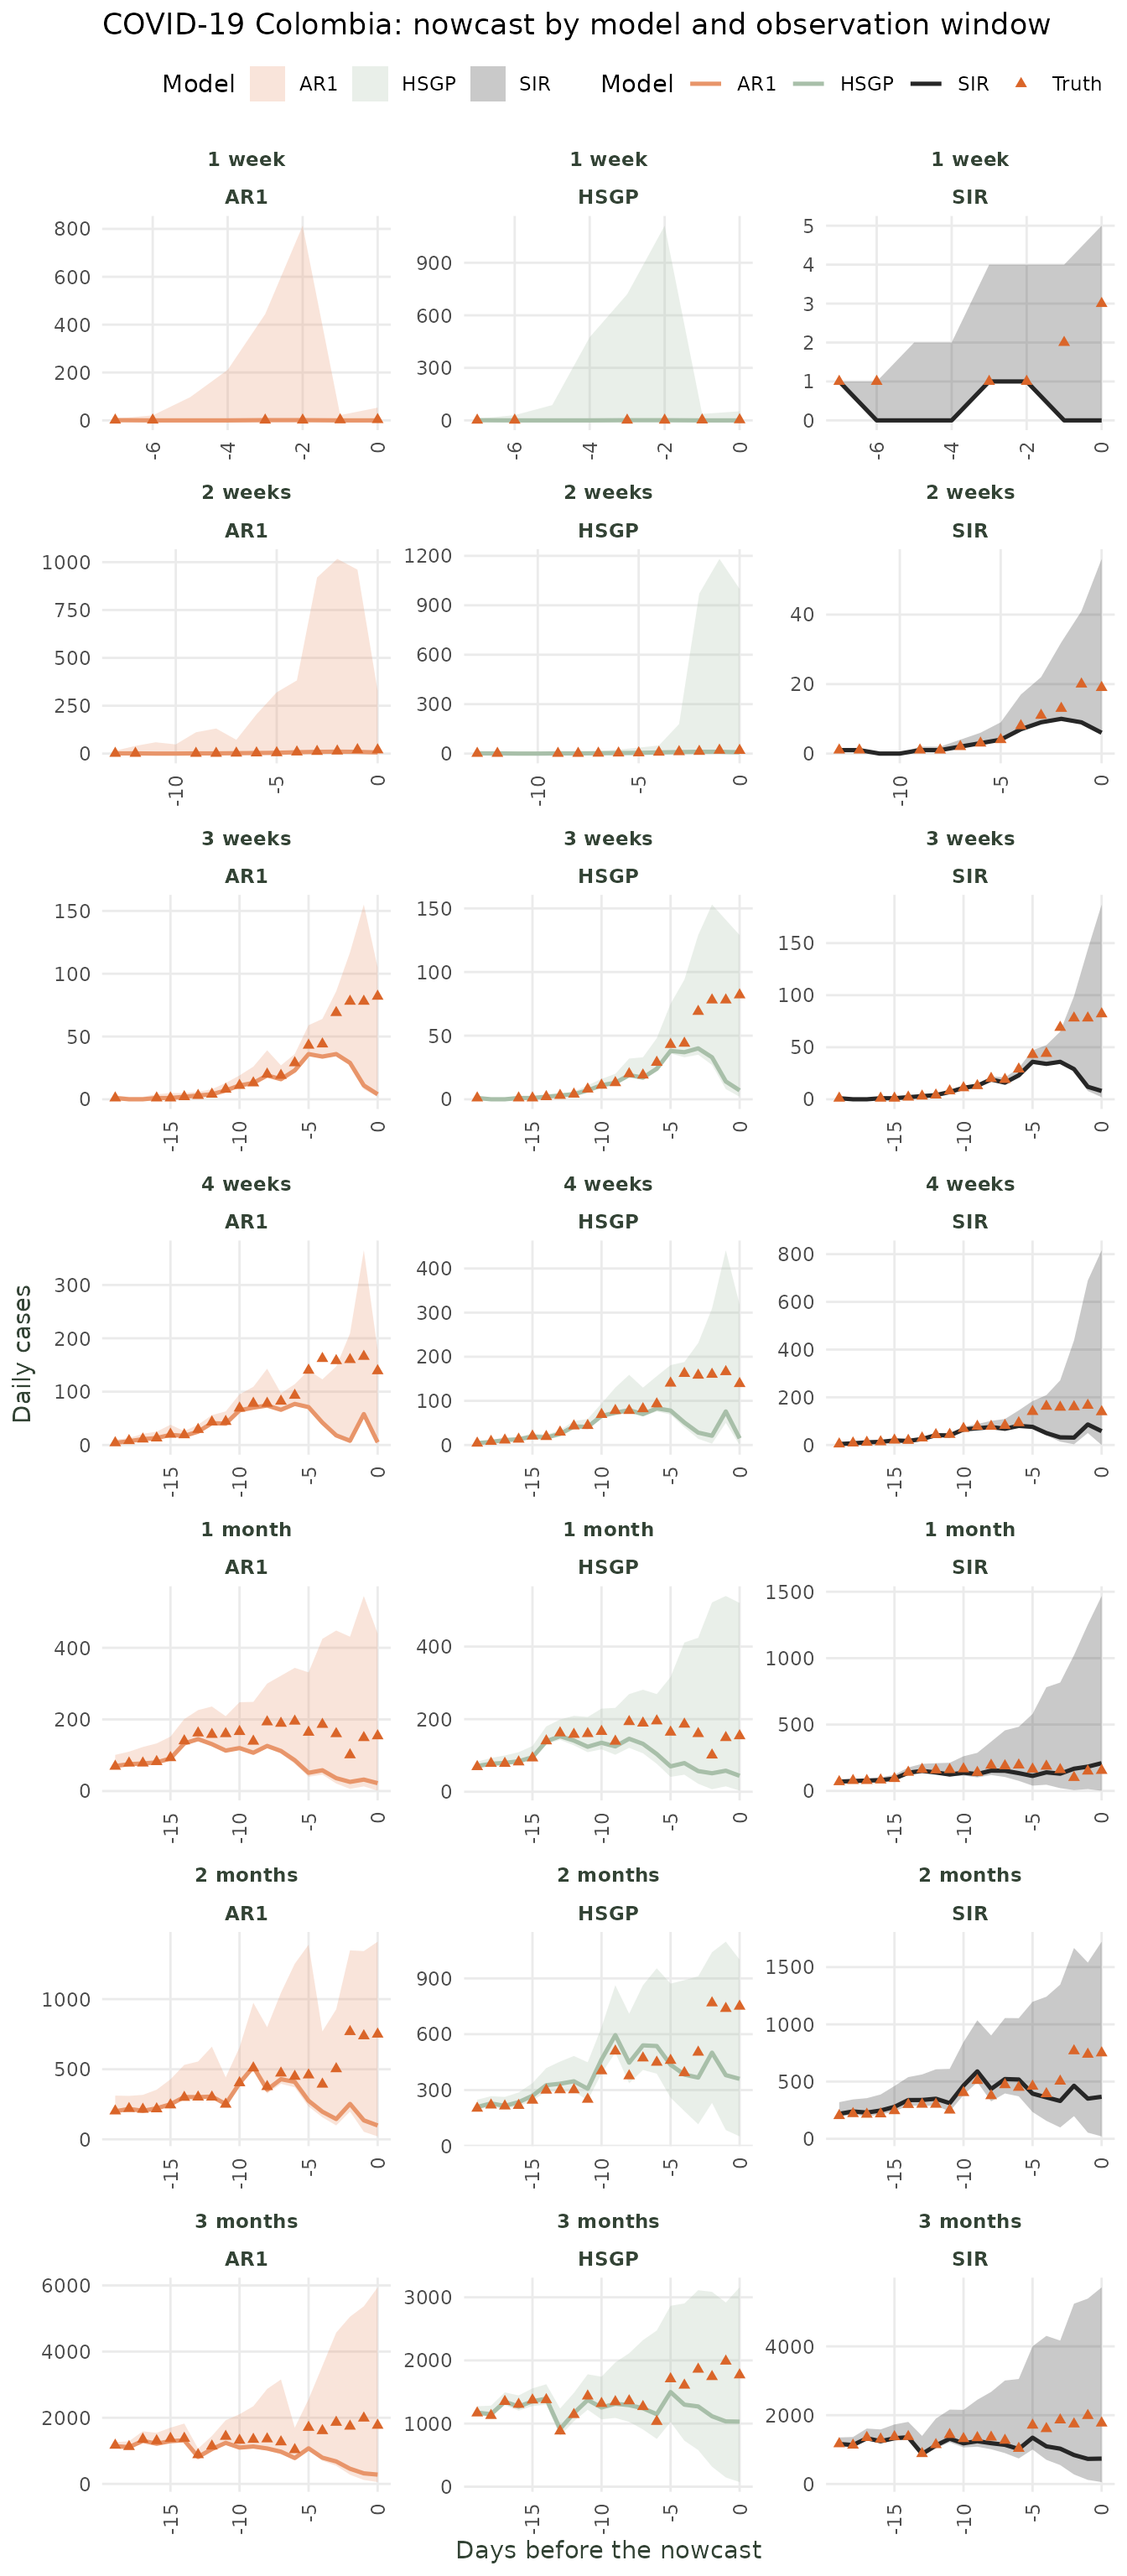
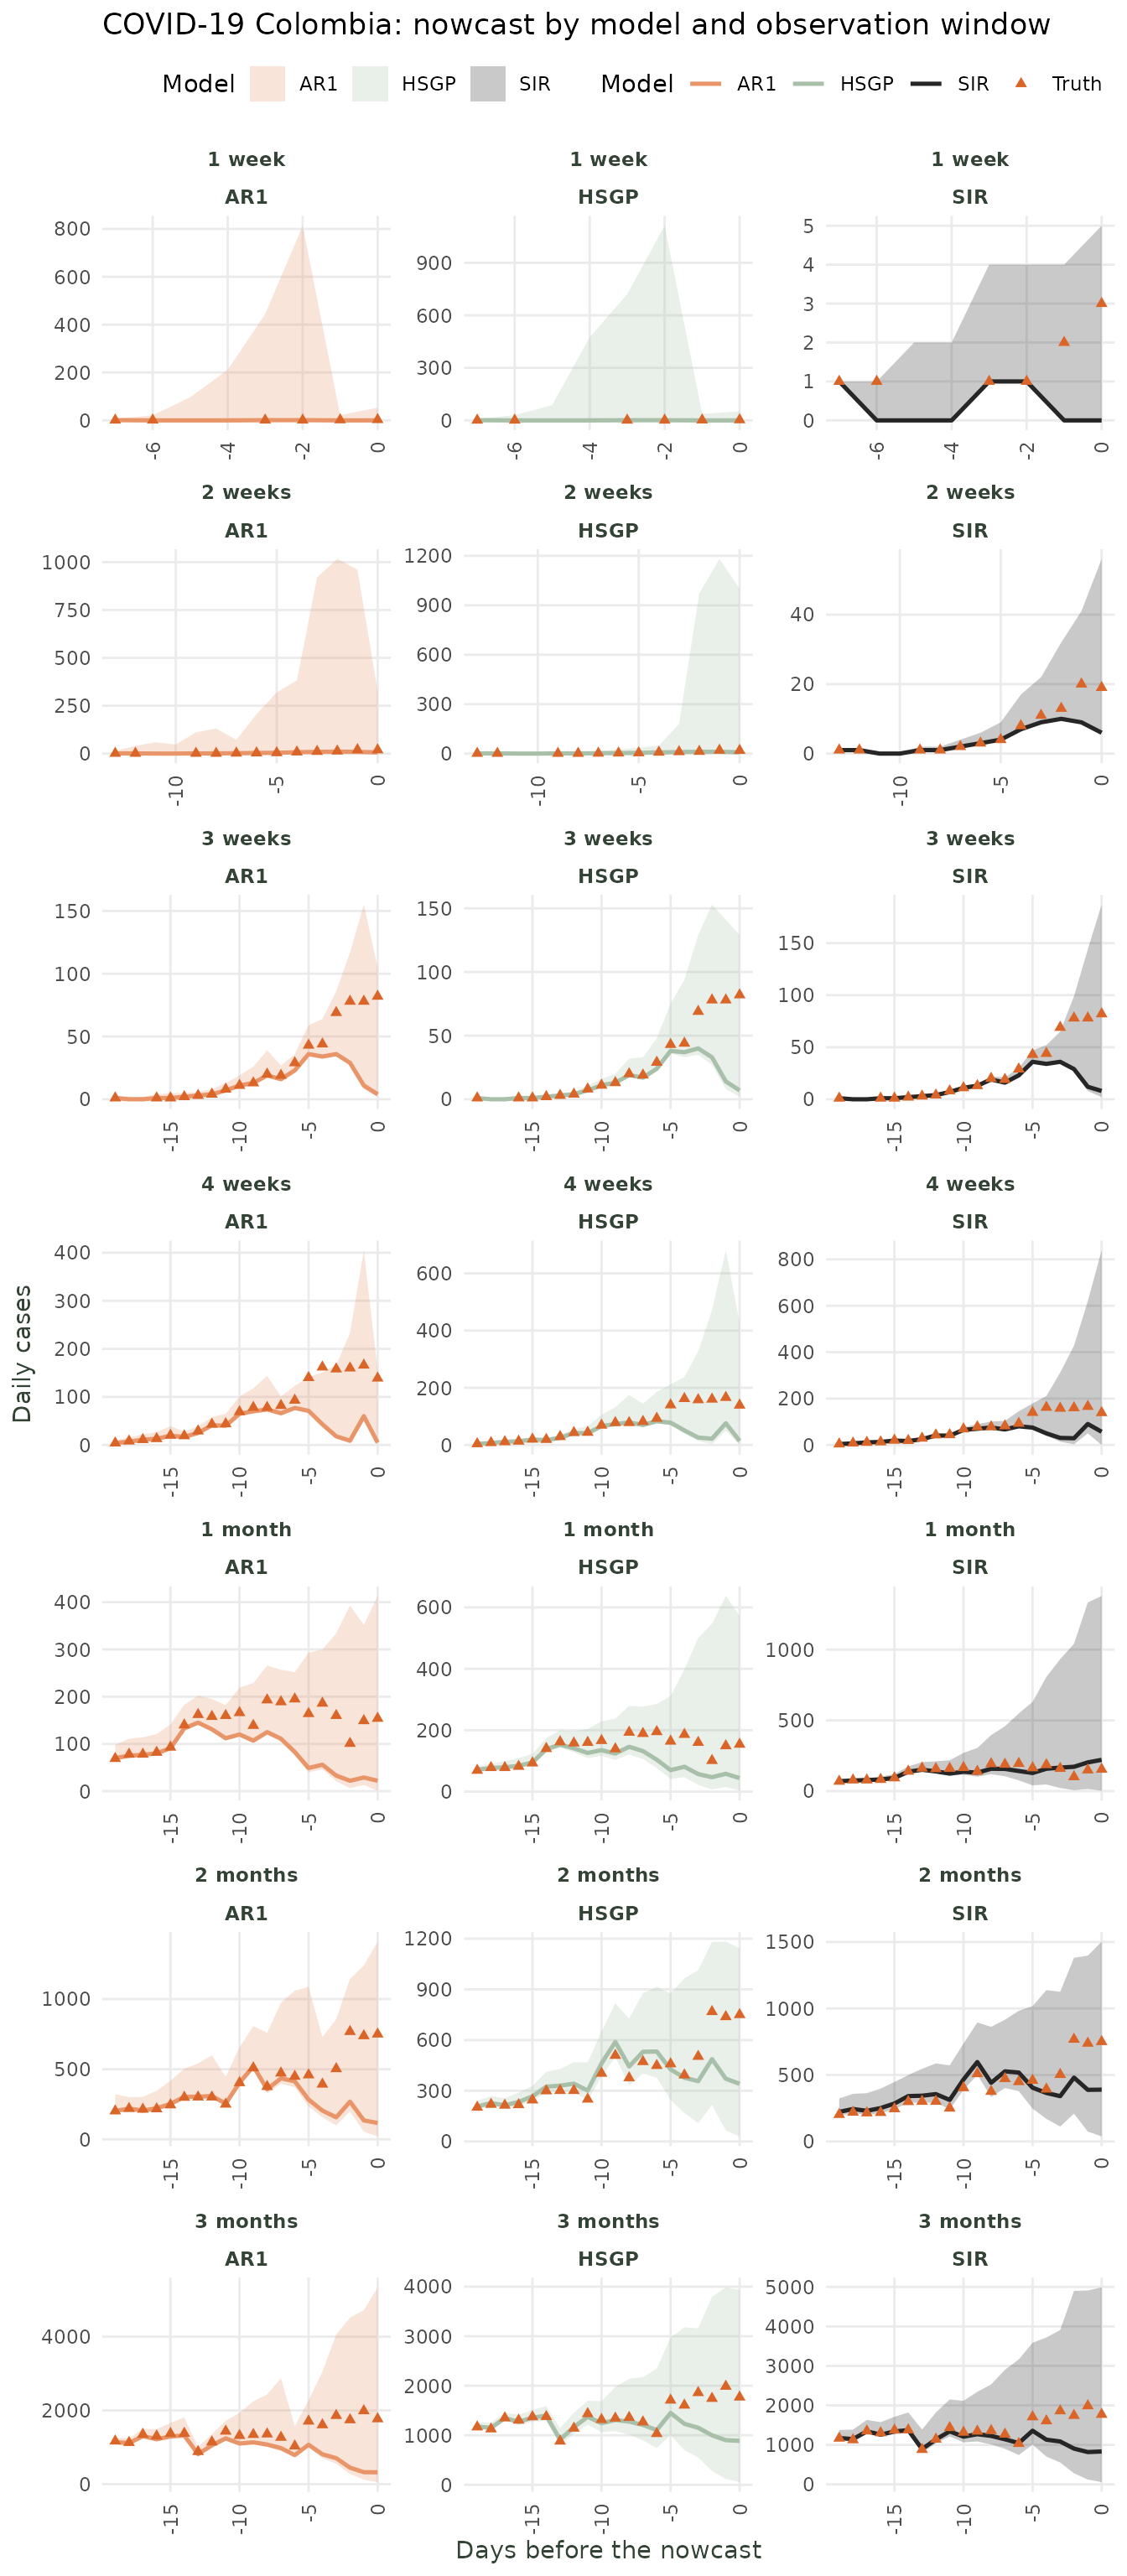
Deploying to gh-pages from @ RodrigoZepeda/diseasenowcasting@2859b7c5ae731d737d0edef85751f343f3bce633 🚀

diff --git a/articles/Handling_Outlier_Delays_with_Censoring.html b/articles/Handling_Outlier_Delays_with_Censoring.html
@@ -264,49 +264,49 @@ literally.</p>
 <code class="sourceCode R"><span><span class="co">#Previous</span></span>
 <span><span class="fu"><a href="https://rdrr.io/r/stats/coef.html" class="external-link">coef</a></span><span class="op">(</span><span class="va">nc_updated</span><span class="op">)</span></span>
 <span><span class="co">#&gt;     delay_mu  delay_sigma       phi_nb mu_intercept log_gp_alpha   log_gp_ell </span></span>
-<span><span class="co">#&gt;    2.1837780    9.1643683    0.1941141    7.6212181    1.2539174   -1.6688185</span></span>
+<span><span class="co">#&gt;    2.1837780    9.1643683    0.1940659    7.6255576    1.2539960   -1.6689743</span></span>
 <span></span>
 <span><span class="co">#Updated</span></span>
 <span><span class="fu"><a href="https://rdrr.io/r/stats/coef.html" class="external-link">coef</a></span><span class="op">(</span><span class="va">nc_updated_censored</span><span class="op">)</span></span>
 <span><span class="co">#&gt;     delay_mu  delay_sigma       phi_nb mu_intercept log_gp_alpha   log_gp_ell </span></span>
-<span><span class="co">#&gt;   2.20092627   9.20295857   0.05545091   7.69584948   1.20578266  -1.56674944</span></span></code></pre></div>
+<span><span class="co">#&gt;   2.20092627   9.20295857   0.05544608   7.69572464   1.20598345  -1.56632669</span></span></code></pre></div>
 <p>Which also affects predictions:</p>
 <div class="sourceCode" id="cb12"><pre class="downlit sourceCode r">
 <code class="sourceCode R"><span><span class="co">#Previous</span></span>
 <span><span class="va">pred_previous</span> <span class="op">&lt;-</span> <span class="fu"><a href="https://rdrr.io/r/stats/predict.html" class="external-link">predict</a></span><span class="op">(</span><span class="va">nc_updated</span><span class="op">)</span> </span>
 <span><span class="fu"><a href="https://rdrr.io/r/base/summary.html" class="external-link">summary</a></span><span class="op">(</span><span class="va">pred_previous</span><span class="op">)</span> <span class="op">|&gt;</span> <span class="fu"><a href="https://rdrr.io/r/utils/head.html" class="external-link">tail</a></span><span class="op">(</span><span class="fl">6</span><span class="op">)</span></span>
 <span><span class="co">#&gt;         mean  median        sd      mad q2.5      q5    q10     q25     q50</span></span>
-<span><span class="co">#&gt; 179 10626.92  9376.5  7729.546 2515.972 4906 4954.75 6200.6 7831.50  9376.5</span></span>
-<span><span class="co">#&gt; 180 11134.35  9635.0  9590.599 2831.766 4356 4415.75 6170.7 7932.00  9635.0</span></span>
-<span><span class="co">#&gt; 181 10283.28  9002.5 12146.092 3322.507 2884 2939.55 4569.6 6900.00  9002.5</span></span>
-<span><span class="co">#&gt; 182 10664.80  8800.5 16702.184 3974.109 1632 1709.65 3543.4 6188.00  8800.5</span></span>
-<span><span class="co">#&gt; 183 12317.05 10551.0 15293.335 4439.646 2425 2459.90 4578.7 7717.75 10551.0</span></span>
-<span><span class="co">#&gt; 184 11233.26 10259.5  9054.003 4771.007 1233 1256.85 2884.2 7137.75 10259.5</span></span>
+<span><span class="co">#&gt; 179 10439.86  9293.0  7287.158 2445.549 4906 4964.95 6075.7 7795.75  9293.0</span></span>
+<span><span class="co">#&gt; 180 11164.80  9584.5 10026.327 2925.911 4356 4391.90 5934.8 7831.50  9584.5</span></span>
+<span><span class="co">#&gt; 181 10835.10  9046.0 13724.567 3371.432 2884 2961.90 5027.5 6980.50  9046.0</span></span>
+<span><span class="co">#&gt; 182 10414.78  8686.5 13337.931 3961.507 1632 1714.85 3361.8 6140.75  8686.5</span></span>
+<span><span class="co">#&gt; 183 11884.50 10522.5 11602.504 4427.785 2425 2447.95 4303.5 7613.00 10522.5</span></span>
+<span><span class="co">#&gt; 184 11781.81 10218.5 12359.513 4410.735 1233 1460.80 4094.5 7361.75 10218.5</span></span>
 <span><span class="co">#&gt;          q75     q90      q95    q97.5 .event_num</span></span>
-<span><span class="co">#&gt; 179 11282.75 14264.2 17500.60 24131.85        178</span></span>
-<span><span class="co">#&gt; 180 11818.75 15452.2 20146.15 27595.45        179</span></span>
-<span><span class="co">#&gt; 181 11511.50 14950.0 18249.35 23759.90        180</span></span>
-<span><span class="co">#&gt; 182 11588.50 15654.3 20850.25 31856.57        181</span></span>
-<span><span class="co">#&gt; 183 13725.25 18390.4 23680.90 31558.40        182</span></span>
-<span><span class="co">#&gt; 184 13590.75 17390.2 22027.15 30179.35        183</span></span>
+<span><span class="co">#&gt; 179 11192.00 14110.3 17833.30 23197.60        178</span></span>
+<span><span class="co">#&gt; 180 11811.50 15381.3 20254.10 27917.15        179</span></span>
+<span><span class="co">#&gt; 181 11662.25 15622.1 20650.45 30366.02        180</span></span>
+<span><span class="co">#&gt; 182 11589.25 15725.9 21782.90 30591.87        181</span></span>
+<span><span class="co">#&gt; 183 13630.50 18318.4 23027.30 29552.67        182</span></span>
+<span><span class="co">#&gt; 184 13307.25 17811.7 23834.35 32522.87        183</span></span>
 <span></span>
 <span><span class="co">#Updated</span></span>
 <span><span class="va">pred_censored</span> <span class="op">&lt;-</span> <span class="fu"><a href="https://rdrr.io/r/stats/predict.html" class="external-link">predict</a></span><span class="op">(</span><span class="va">nc_updated_censored</span><span class="op">)</span></span>
 <span><span class="fu"><a href="https://rdrr.io/r/base/summary.html" class="external-link">summary</a></span><span class="op">(</span><span class="va">pred_censored</span><span class="op">)</span> <span class="op">|&gt;</span> <span class="fu"><a href="https://rdrr.io/r/utils/head.html" class="external-link">tail</a></span><span class="op">(</span><span class="fl">6</span><span class="op">)</span></span>
 <span><span class="co">#&gt;         mean  median       sd      mad     q2.5      q5    q10     q25     q50</span></span>
-<span><span class="co">#&gt; 179 10639.03  9811.5 4448.225 2427.016 5665.375 6368.70 7092.9 8342.50  9811.5</span></span>
-<span><span class="co">#&gt; 180 11032.07 10275.0 4354.723 2882.174 5054.925 6086.60 6990.2 8472.25 10275.0</span></span>
-<span><span class="co">#&gt; 181 10658.79  9787.5 5382.006 3325.472 3842.625 4946.60 5984.9 7680.00  9787.5</span></span>
-<span><span class="co">#&gt; 182 10338.49  9514.5 5667.019 3769.510 2591.650 3943.95 5161.5 7051.75  9514.5</span></span>
-<span><span class="co">#&gt; 183 12452.94 11487.5 7321.187 4222.445 3655.250 5029.80 6594.7 8812.00 11487.5</span></span>
-<span><span class="co">#&gt; 184 12053.63 11130.5 6355.090 4421.113 2551.500 4157.15 5932.3 8393.50 11130.5</span></span>
+<span><span class="co">#&gt; 179 10813.71  9904.5 4700.587 2501.887 5738.775 6486.50 7274.3 8400.00  9904.5</span></span>
+<span><span class="co">#&gt; 180 11160.37 10262.0 4930.549 2888.105 4994.575 6144.00 7087.9 8457.25 10262.0</span></span>
+<span><span class="co">#&gt; 181 10991.31  9762.5 6994.666 3246.153 3997.650 5065.85 6140.2 7737.00  9762.5</span></span>
+<span><span class="co">#&gt; 182 10692.97  9446.5 7040.419 3623.474 2773.475 3999.55 5277.8 7202.25  9446.5</span></span>
+<span><span class="co">#&gt; 183 12470.13 11579.0 6619.103 4390.720 3755.525 5168.80 6651.1 8802.50 11579.0</span></span>
+<span><span class="co">#&gt; 184 11923.93 10949.5 6825.416 4563.443 2543.200 4001.35 5751.1 8066.00 10949.5</span></span>
 <span><span class="co">#&gt;          q75     q90      q95    q97.5 .event_num</span></span>
-<span><span class="co">#&gt; 179 11735.25 14363.9 17053.90 21147.97        178</span></span>
-<span><span class="co">#&gt; 180 12440.25 15467.7 18260.60 22433.45        179</span></span>
-<span><span class="co">#&gt; 181 12173.00 15556.0 18793.50 22793.70        180</span></span>
-<span><span class="co">#&gt; 182 12130.50 16121.9 19285.65 23204.67        181</span></span>
-<span><span class="co">#&gt; 183 14588.75 18446.6 21701.90 25943.57        182</span></span>
-<span><span class="co">#&gt; 184 14386.00 18630.4 21772.05 27027.35        183</span></span></code></pre></div>
+<span><span class="co">#&gt; 179 11917.75 14814.5 17773.30 21475.65        178</span></span>
+<span><span class="co">#&gt; 180 12469.75 15915.1 18458.35 23332.30        179</span></span>
+<span><span class="co">#&gt; 181 12195.25 15758.3 19806.05 27228.47        180</span></span>
+<span><span class="co">#&gt; 182 12257.00 16449.9 20852.70 25825.30        181</span></span>
+<span><span class="co">#&gt; 183 14852.50 18478.6 21616.05 26782.67        182</span></span>
+<span><span class="co">#&gt; 184 14382.75 18211.0 21234.65 26559.02        183</span></span></code></pre></div>
 </div>
 <div class="section level2">
 <h2 id="does-it-nowcast-better-backtest">4) Does it nowcast better? Backtest<a class="anchor" aria-label="anchor" href="#does-it-nowcast-better-backtest"></a>
@@ -329,8 +329,8 @@ better) and coverage (closer to the expected coverage the better).</p>
 <span>  censored <span class="op">=</span> <span class="fu"><a href="../reference/score.html">score</a></span><span class="op">(</span><span class="va">bt_cens</span>,  report <span class="op">=</span> <span class="cn">FALSE</span><span class="op">)</span><span class="op">[</span>, <span class="fu"><a href="https://rdrr.io/r/base/c.html" class="external-link">c</a></span><span class="op">(</span><span class="st">"wis"</span>, <span class="st">"coverage_50"</span>, <span class="st">"coverage_90"</span><span class="op">)</span><span class="op">]</span></span>
 <span><span class="op">)</span></span>
 <span><span class="co">#&gt;               wis coverage_50 coverage_90</span></span>
-<span><span class="co">#&gt; plain    193.6895         0.5        0.50</span></span>
-<span><span class="co">#&gt; censored 205.5531         0.5        0.75</span></span></code></pre></div>
+<span><span class="co">#&gt; plain    214.1542         0.5         0.5</span></span>
+<span><span class="co">#&gt; censored 179.9184         0.5         0.5</span></span></code></pre></div>
 <p>Censoring the outlier delays result in a <strong>lower (better)
 WIS</strong> and a better coverage: the delay distribution is no longer
 pulled to the right by extreme values. <strong>This shows that censoring

diff --git a/extra.css b/extra.css
@@ -30,3 +30,30 @@ a {
 a:hover {
   color: #B85348;
 }
+
+/* Color for all headings (H1, H2, H3, etc.) */
+h1, h2, h3, h4, h5, h6, .h1, .h2, .h3, .h4, .h5, .h6 {
+  color: #B85348 !important;
+}
+
+/* Color for bold text */
+strong, b {
+  color: #B85348;
+}
+
+/* Background color for inline code snippets */
+code {
+  background-color: #ebefeb;
+  padding: 0.2em 0.4em;
+  border-radius: 4px;
+}
+
+/* Background color for code chunks/blocks */
+pre.src, pre.r, div.sourceCode {
+  background-color: #ebefeb !important;
+}
+
+/* Ensures the internal pre block inherits the background */
+pre.src code, div.sourceCode pre {
+  background-color: transparent !important;
+}

diff --git a/articles/introduction.html b/articles/introduction.html
@@ -339,11 +339,11 @@ coverage via <code><a href="../reference/score.html">score()</a></code>:</p>
 <span><span class="fu"><a href="../reference/score.html">score</a></span><span class="op">(</span><span class="va">backtest_mpox</span>, metric <span class="op">=</span> <span class="st">"wis"</span>, report <span class="op">=</span> <span class="cn">TRUE</span><span class="op">)</span></span>
 <span><span class="co">#&gt;               model      wis overprediction underprediction dispersion</span></span>
 <span><span class="co">#&gt; 1  SIR/nb/LogNormal 10.52604       0.000000        7.852778   2.673264</span></span>
-<span><span class="co">#&gt; 2  AR1/nb/LogNormal 14.22583       3.277778        2.666667   8.281389</span></span>
+<span><span class="co">#&gt; 2  AR1/nb/LogNormal 14.24507       3.250000        2.666667   8.328403</span></span>
 <span><span class="co">#&gt; 3 HSGP/nb/LogNormal 15.22941       2.083333        4.472222   8.673854</span></span>
 <span><span class="co">#&gt;   coverage_50 coverage_90       ape      mse n</span></span>
 <span><span class="co">#&gt; 1        0.75        0.75 0.4007886 1714.750 4</span></span>
-<span><span class="co">#&gt; 2        0.25        1.00 6.7268632 1408.500 4</span></span>
+<span><span class="co">#&gt; 2        0.25        1.00 6.7201065 1399.250 4</span></span>
 <span><span class="co">#&gt; 3        0.50        1.00 1.4603280 1778.312 4</span></span></code></pre></div>
 <p>The <code><a href="../reference/score.html">score()</a></code> output shows WIS, absolute percentage error
 (APE), and empirical coverage at 50 % and 90 %. A well-calibrated

diff --git a/articles/Handling_Outlier_Delays_with_Censoring.md b/articles/Handling_Outlier_Delays_with_Censoring.md
@@ -217,12 +217,12 @@ literally.
 #Previous
 coef(nc_updated)
 #>     delay_mu  delay_sigma       phi_nb mu_intercept log_gp_alpha   log_gp_ell 
-#>    2.1837780    9.1643683    0.1941141    7.6212181    1.2539174   -1.6688185
+#>    2.1837780    9.1643683    0.1940659    7.6255576    1.2539960   -1.6689743
 
 #Updated
 coef(nc_updated_censored)
 #>     delay_mu  delay_sigma       phi_nb mu_intercept log_gp_alpha   log_gp_ell 
-#>   2.20092627   9.20295857   0.05545091   7.69584948   1.20578266  -1.56674944
+#>   2.20092627   9.20295857   0.05544608   7.69572464   1.20598345  -1.56632669
 ```
 
 Which also affects predictions:
@@ -233,37 +233,37 @@ Which also affects predictions:
 pred_previous <- predict(nc_updated) 
 summary(pred_previous) |> tail(6)
 #>         mean  median        sd      mad q2.5      q5    q10     q25     q50
-#> 179 10626.92  9376.5  7729.546 2515.972 4906 4954.75 6200.6 7831.50  9376.5
-#> 180 11134.35  9635.0  9590.599 2831.766 4356 4415.75 6170.7 7932.00  9635.0
-#> 181 10283.28  9002.5 12146.092 3322.507 2884 2939.55 4569.6 6900.00  9002.5
-#> 182 10664.80  8800.5 16702.184 3974.109 1632 1709.65 3543.4 6188.00  8800.5
-#> 183 12317.05 10551.0 15293.335 4439.646 2425 2459.90 4578.7 7717.75 10551.0
-#> 184 11233.26 10259.5  9054.003 4771.007 1233 1256.85 2884.2 7137.75 10259.5
+#> 179 10439.86  9293.0  7287.158 2445.549 4906 4964.95 6075.7 7795.75  9293.0
+#> 180 11164.80  9584.5 10026.327 2925.911 4356 4391.90 5934.8 7831.50  9584.5
+#> 181 10835.10  9046.0 13724.567 3371.432 2884 2961.90 5027.5 6980.50  9046.0
+#> 182 10414.78  8686.5 13337.931 3961.507 1632 1714.85 3361.8 6140.75  8686.5
+#> 183 11884.50 10522.5 11602.504 4427.785 2425 2447.95 4303.5 7613.00 10522.5
+#> 184 11781.81 10218.5 12359.513 4410.735 1233 1460.80 4094.5 7361.75 10218.5
 #>          q75     q90      q95    q97.5 .event_num
-#> 179 11282.75 14264.2 17500.60 24131.85        178
-#> 180 11818.75 15452.2 20146.15 27595.45        179
-#> 181 11511.50 14950.0 18249.35 23759.90        180
-#> 182 11588.50 15654.3 20850.25 31856.57        181
-#> 183 13725.25 18390.4 23680.90 31558.40        182
-#> 184 13590.75 17390.2 22027.15 30179.35        183
+#> 179 11192.00 14110.3 17833.30 23197.60        178
+#> 180 11811.50 15381.3 20254.10 27917.15        179
+#> 181 11662.25 15622.1 20650.45 30366.02        180
+#> 182 11589.25 15725.9 21782.90 30591.87        181
+#> 183 13630.50 18318.4 23027.30 29552.67        182
+#> 184 13307.25 17811.7 23834.35 32522.87        183
 
 #Updated
 pred_censored <- predict(nc_updated_censored)
 summary(pred_censored) |> tail(6)
 #>         mean  median       sd      mad     q2.5      q5    q10     q25     q50
-#> 179 10639.03  9811.5 4448.225 2427.016 5665.375 6368.70 7092.9 8342.50  9811.5
-#> 180 11032.07 10275.0 4354.723 2882.174 5054.925 6086.60 6990.2 8472.25 10275.0
-#> 181 10658.79  9787.5 5382.006 3325.472 3842.625 4946.60 5984.9 7680.00  9787.5
-#> 182 10338.49  9514.5 5667.019 3769.510 2591.650 3943.95 5161.5 7051.75  9514.5
-#> 183 12452.94 11487.5 7321.187 4222.445 3655.250 5029.80 6594.7 8812.00 11487.5
-#> 184 12053.63 11130.5 6355.090 4421.113 2551.500 4157.15 5932.3 8393.50 11130.5
+#> 179 10813.71  9904.5 4700.587 2501.887 5738.775 6486.50 7274.3 8400.00  9904.5
+#> 180 11160.37 10262.0 4930.549 2888.105 4994.575 6144.00 7087.9 8457.25 10262.0
+#> 181 10991.31  9762.5 6994.666 3246.153 3997.650 5065.85 6140.2 7737.00  9762.5
+#> 182 10692.97  9446.5 7040.419 3623.474 2773.475 3999.55 5277.8 7202.25  9446.5
+#> 183 12470.13 11579.0 6619.103 4390.720 3755.525 5168.80 6651.1 8802.50 11579.0
+#> 184 11923.93 10949.5 6825.416 4563.443 2543.200 4001.35 5751.1 8066.00 10949.5
 #>          q75     q90      q95    q97.5 .event_num
-#> 179 11735.25 14363.9 17053.90 21147.97        178
-#> 180 12440.25 15467.7 18260.60 22433.45        179
-#> 181 12173.00 15556.0 18793.50 22793.70        180
-#> 182 12130.50 16121.9 19285.65 23204.67        181
-#> 183 14588.75 18446.6 21701.90 25943.57        182
-#> 184 14386.00 18630.4 21772.05 27027.35        183
+#> 179 11917.75 14814.5 17773.30 21475.65        178
+#> 180 12469.75 15915.1 18458.35 23332.30        179
+#> 181 12195.25 15758.3 19806.05 27228.47        180
+#> 182 12257.00 16449.9 20852.70 25825.30        181
+#> 183 14852.50 18478.6 21616.05 26782.67        182
+#> 184 14382.75 18211.0 21234.65 26559.02        183
 ```
 
 ## 4) Does it nowcast better? Backtest
@@ -287,8 +287,8 @@ rbind(
   censored = score(bt_cens,  report = FALSE)[, c("wis", "coverage_50", "coverage_90")]
 )
 #>               wis coverage_50 coverage_90
-#> plain    193.6895         0.5        0.50
-#> censored 205.5531         0.5        0.75
+#> plain    214.1542         0.5         0.5
+#> censored 179.9184         0.5         0.5
 ```
 
 Censoring the outlier delays result in a **lower (better) WIS** and a

diff --git a/articles/introduction.md b/articles/introduction.md
@@ -316,11 +316,11 @@ coverage via
 score(backtest_mpox, metric = "wis", report = TRUE)
 #>               model      wis overprediction underprediction dispersion
 #> 1  SIR/nb/LogNormal 10.52604       0.000000        7.852778   2.673264
-#> 2  AR1/nb/LogNormal 14.22583       3.277778        2.666667   8.281389
+#> 2  AR1/nb/LogNormal 14.24507       3.250000        2.666667   8.328403
 #> 3 HSGP/nb/LogNormal 15.22941       2.083333        4.472222   8.673854
 #>   coverage_50 coverage_90       ape      mse n
 #> 1        0.75        0.75 0.4007886 1714.750 4
-#> 2        0.25        1.00 6.7268632 1408.500 4
+#> 2        0.25        1.00 6.7201065 1399.250 4
 #> 3        0.50        1.00 1.4603280 1778.312 4
 ```
 